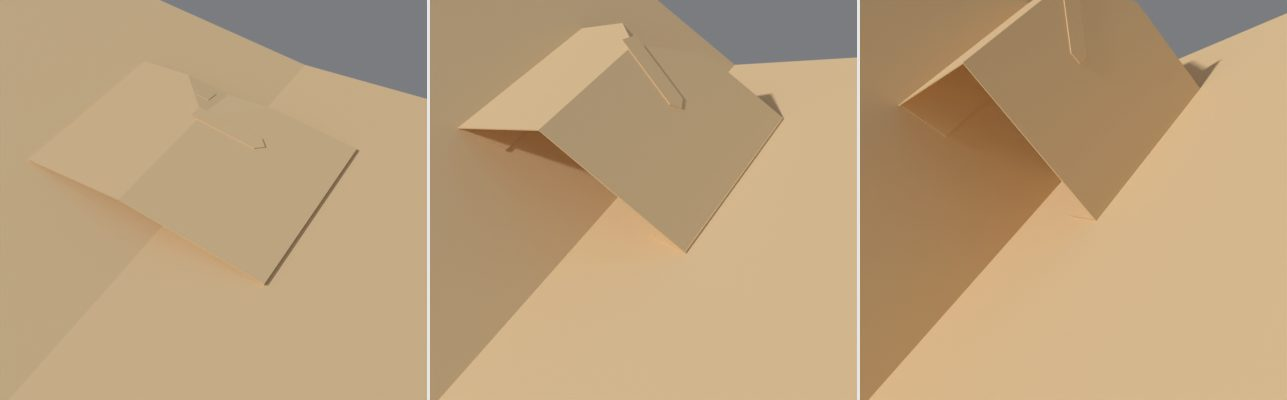
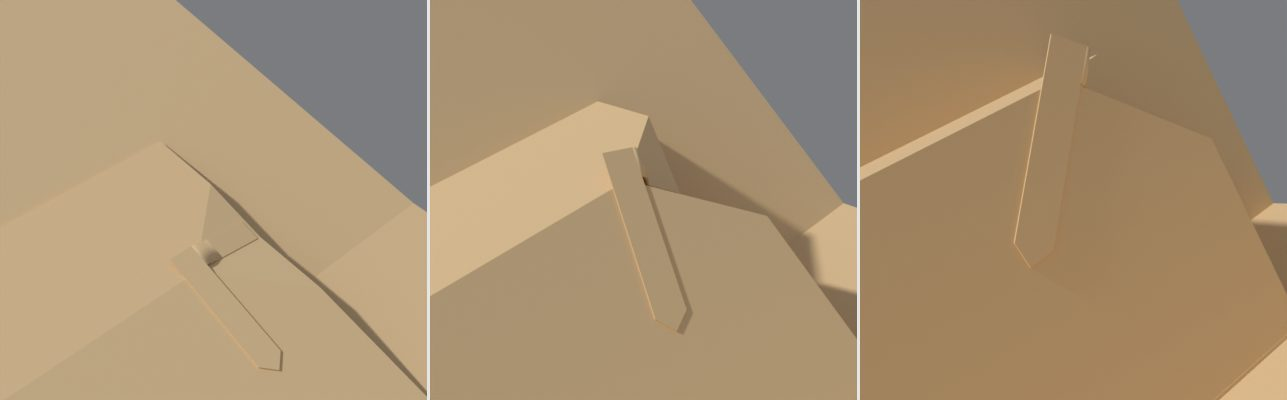
0.88.3: a dipped lid's crease is a host; the disc's L piece is one bent piece
Fold: Roof Crease on a cube with a dipped lid (on a strut or not) stands a
mechanism along the lid's crease from the front corner. The turning disc's
L piece prints as one right-angled L: leg F up the triangle's centre
crease, leg G under the disc, a low-poly band bending round the corner.

Claude-Session: https://claude.ai/code/session_01C9mQ3UdpPG4HfxWumnBXkE

diff --git a/popup_pro/core/folds45.py b/popup_pro/core/folds45.py
@@ -528,33 +528,65 @@ class Folds45:
             dsk = self.add(Panel(f"{dp}.Disc", dp, "panel", [circle], asm_disc, X, None,
                                  f"{lab}: turning disc"))
             dsk.free = True
-        # the L-shaped piece: arm F glued on Y's triangle, arm G reaching out
-        # from the disc's centre along its back (turning with it: with the
-        # disc hidden it shows the turn by itself, and takes paste-ons)
+        # the L-shaped piece, one strip of card: leg F glued on Y's triangle,
+        # leg G under the disc from its centre, turning with it (with the disc
+        # hidden it shows the turn by itself, and takes paste-ons). Between
+        # them it bends round the corner: leg F is stiff down to a band across
+        # it just above the corner, and the band bends from where leg F would
+        # put it to where leg G would (on screen a mix of the two)
         lp = f"{dp}L"
         self.add_piece(Piece(lp, f"{lab} disc's L piece", 1 + m["uid"], (0.0, 0.0)))
-        cy = [sum(q[i] for q in PY.polys[0]) / len(PY.polys[0]) for i in (0, 1)]
-        s_ = max(2.0, 0.3 * h)
-        armF = Matrix.Translation((cy[0], cy[1], TAB_LIFT))  # (on the triangle's middle)
+        Hv = Vector(Hp)
+        Cv = Vector([sum(q[i] for q in PY.polys[0]) / len(PY.polys[0]) for i in (0, 1)])
+        w_ = max(2.0, 0.3 * h)
+        cd = Vector(hc.d1(0.0, 1.0)).normalized()  # (the corner's crease)
+        if (Cv - Hv).dot(cd) < 0:
+            cd = -cd  # (up it into the triangles)
+        u2 = (Hv - Cv) - (Hv - Cv).dot(cd) * cd  # (across it, off Y into X)
+        u2.normalize()
+        reach = 0.85 * R
+        # leg F runs up the centre crease, alongside it on Y's triangle; leg G
+        # straight out across it at H: a right-angled L
+        Lf = 0.95 * h
+        yl = 0.5 * w_  # (up the crease from H: where it's stiff with leg G to)
+        bw = max(0.5 * w_, min(2.0 * w_, 0.3 * (Lf - yl)))
+        ya = yl + bw  # (leg F's stiff end)
+
+        def at(a_, b_):  # (a_ up the crease from H, b_ across it towards X)
+            return tuple((Hv + a_ * cd + b_ * u2)[:])
+
+        def rect(a0, a1):
+            return [at(a0, -w_), at(a0, 0.0), at(a1, 0.0), at(a1, -w_)]
+
+        legF = ccw(rect(ya, Lf))
+        rows = 6
+        bend = [ccw(rect(yl + bw * k / rows, yl + bw * (k + 1) / rows)) for k in range(rows)]
+        legG = [ccw([at(-yl, -w_), at(-yl, reach), at(0.0, reach + 0.5 * w_), at(yl, reach),
+                     at(yl, -w_)])]
+        z1 = Matrix.Translation((0.0, 0.0, TAB_LIFT))
+        Hm = Matrix.Translation(Hp3)
 
         def asm_f(t):
-            return PY.asm(t) @ armF
+            return PY.asm(t) @ z1
 
         def asm_g(t):
             return PX.asm(t) @ Matrix.Translation(Hp3 + Vector((0.0, 0.0, 2.0 * TAB_LIFT))) @ \
-                Matrix.Rotation(turn(t), 4, "Z")
+                Matrix.Rotation(turn(t), 4, "Z") @ Hm.inverted()
 
-        af = self.add(Panel(f"{lp}.F", lp, "panel",
-                            [[(-0.5 * s_, -0.5 * s_), (0.5 * s_, -0.5 * s_), (0.5 * s_, 0.5 * s_),
-                              (-0.5 * s_, 0.5 * s_)]], asm_f, Y, None,
-                            f"{lab}: L piece arm F (on the triangle)"))
+        af = self.add(Panel(f"{lp}.F", lp, "panel", [legF], asm_f, Y, None,
+                            f"{lab}: L piece leg F (on the triangle)"))
         af.free = True
-        reach = 0.85 * R
-        ag = self.add(Panel(f"{lp}.G", lp, "panel",
-                            [[(-0.5 * s_, -0.5 * s_), (reach, -0.5 * s_), (reach + 0.5 * s_, 0.0),
-                              (reach, 0.5 * s_), (-0.5 * s_, 0.5 * s_)]], asm_g, X, None,
-                            f"{lab}: L piece arm G (behind the disc, turning)"))
+        ag = self.add(Panel(f"{lp}.G", lp, "panel", legG, asm_g, X, None,
+                            f"{lab}: L piece leg G (behind the disc, turning)"))
         ag.free = True
+        bn = self.add(Panel(f"{lp}.Bend", lp, "panel", bend, asm_f, af.name, None,
+                            f"{lab}: L piece, bending round the corner"))
+        bn.free = True
+        Mw = Matrix(((1.0, 0.0, 0.0, 0.0), (cd.x, cd.y, 0.0, -Hv.dot(cd)),
+                     (0.0, 0.0, 1.0, 0.0), (0.0, 0.0, 0.0, 1.0)))
+        self.blend[bn.name] = (af.name, ag.name, ya, yl, Mw)
+        self.fold_kind[frozenset((af.name, bn.name))] = "skip"
+        self.fold_kind[frozenset((bn.name, ag.name))] = "skip"
 
     # ------------------------------------------------------- jack in the box
     def _jack(self, m, host, cut_in):

diff --git a/tests/test_book_v88.py b/tests/test_book_v88.py
@@ -86,7 +86,29 @@ c = add("CUBE")
 c.size, c.size_r, c.height, c.lid = 55.0, 28.0, 32.0, "STRUT"
 c.strut_at = 200.0
 assert any("strut must stand inside" in w for w in model().warnings)
-print("a dipped lid on a V-fold strut")
+# 0.88.3: a dipped lid's crease is a fold to stand on (Roof Crease)
+for lid in ("DIP", "STRUT"):
+    reset()
+    c = add("CUBE")
+    c.size, c.size_r, c.height, c.lid = 55.0, 28.0, 32.0, lid
+    assert bpy.ops.popup.add(kind="VFOLD", host=c.uid) == {"FINISHED"}
+    v = st.mechs[-1]
+    v.wall = "NONE"
+    v.y, v.height, v.glue = 8.0, 14.0, 14.0
+    bpy.ops.popup.build()
+    assert not warns(), (lid, warns())
+    M = model()
+    assert M.panels["VFold2.HalfL"].parent in ("Cube1.LidL", "Cube1.LidR"), lid
+    clean(M, "VFold2")
+# picked from Stands On, a mechanism goes on a dipped lid's crease
+reset()
+c = add("CUBE")
+c.lid = "DIP"
+assert bpy.ops.popup.add(kind="VFOLD") == {"FINISHED"}
+v = st.mechs[-1]
+v.host = str(c.uid)
+assert v.wall == "NONE"
+print("a dipped lid on a V-fold strut; its crease a fold to stand on")
 
 # ---- turning discs
 for on in ("FRONT", "TOP"):
@@ -127,7 +149,23 @@ bpy.ops.popup.build()
 assert not warns(), warns()
 M = model()
 assert not [x for x in M.order if x.endswith(".Disc")]
-assert {"Box1discTL.F", "Box1discTL.G"} <= set(M.order)
+assert {"Box1discTL.F", "Box1discTL.G", "Box1discTL.Bend"} <= set(M.order)
+# 0.88.3: the L piece is one strip of card, bending round the corner between
+# its legs (no folds printed between them; the bend continuous on screen)
+assert all(M.fold_kind.get(frozenset(p)) == "skip" for p in (
+    ("Box1discTL.F", "Box1discTL.Bend"), ("Box1discTL.Bend", "Box1discTL.G")))
+assert "Box1discTL.Bend" in M.blend
+bn = M.panels["Box1discTL.Bend"]
+for t in M.samples:
+    for poly in bn.polys:
+        for q in poly:
+            u = M.blend_weight(bn.name, q)
+            assert -1e-9 <= u <= 1 + 1e-9
+    # where the bend meets leg G it sits where leg G does
+    G = M.panels["Box1discTL.G"]
+    near = [q for poly in bn.polys for q in poly if M.blend_weight(bn.name, q) > 1 - 1e-9]
+    assert near and all((M.point(bn.name, q, t) - M.shown(G.name, t) @ Vector((*q, 0.0))).length
+                        < 1e-6 for q in near)
 print("turning discs and wheels")
 
 # ---- 0.88.1: rectangles take lids, creased at 45 degrees

diff --git a/popup_pro/props.py b/popup_pro/props.py
@@ -551,6 +551,33 @@ def fit_to_host(m, st):
         finally:
             st["live"] = was
         return
+    if host is not None and host.kind == "CUBE" and m.wall == "NONE" and \
+            host.lid in ("DIP", "STRUT") and host.roof == "NONE" and not host.collar:
+        # along a dipped lid's crease, from the front corner: small enough
+        # to stand in the valley clear of the lid's edges
+        was = st.live
+        st["live"] = False
+        try:
+            s_ = min(host.size, host.size_r or host.size)
+            k = round(0.3 * s_, 1)
+            Lh = s_ * 1.4142
+            m.y = round(0.25 * Lh, 1)
+            if m.kind == "CUBE":
+                m.size, m.size_r, m.height = 0.7 * k, 0.0, 0.7 * k
+            elif m.kind in ("BOX", "BOXCUT"):
+                m.height = m.depth = k
+                m.width = round(0.4 * Lh, 1)
+            elif m.kind == "VFOLD":
+                m.glue = m.height = k
+            elif m.kind == "STANDUP":
+                m.height = m.depth = 0.8 * k
+                m.width = round(0.3 * Lh, 1)
+            elif m.kind in ("TUBE", "PYRAMID"):
+                m.x, m.height, m.depth = 0.25 * k, 0.7 * k, round(0.4 * Lh, 1)
+                m.front = m.back = 0.35 * k
+        finally:
+            st["live"] = was
+        return
     if host is not None and host.kind in ("CUBE", "TUBE") and not (
             host.kind == "TUBE" and m.wall == "NONE" and host.roof == "FLAT"
             and host.roof_fold == "DIP"):
@@ -1155,7 +1182,8 @@ class PopupMech(bpy.types.PropertyGroup):
     size: FloatProperty(name="Size", description="Width of each wall (mm)", default=40.0,
                         min=5.0, soft_max=150.0, update=_changed)
     wall: EnumProperty(name="Fold", update=lambda self, ctx: _fold_changed(self, ctx), items=[
-        ("NONE", "Roof Crease", "On a tube: across its dipped flat roof's centre crease"),
+        ("NONE", "Roof Crease", "On a tube: across its dipped flat roof's centre crease; "
+         "on a cube: along its dipped lid's crease, from the front corner"),
         ("L", "Left Wall", "Where the host's left (front-left) wall meets the page, "
          "outside it: the wall as the background"),
         ("R", "Right Wall", "Where the host's right (front-right) wall meets the page, "

diff --git a/scripts/render_views.py b/scripts/render_views.py
@@ -169,6 +169,15 @@ def rect_lid():
     return (0, 105, 25), 250, (0.35, -0.75, 0.55), (178.0, 140.0, 100.0)
 
 
+def lid_host():
+    a = add("CUBE")
+    a.size, a.size_r, a.height, a.lid = 55.0, 28.0, 32.0, "STRUT"
+    b = add("VFOLD", host=a.uid)
+    b.wall = "NONE"  # (Roof Crease)
+    b.y, b.height, b.glue = 8.0, 14.0, 14.0
+    return (0, 110, 35), 230, (0.35, -0.75, 0.55), (178.0, 140.0, 100.0)
+
+
 def strut_cutaway():
     a = add("CUBE")
     a.size, a.size_r, a.height, a.lid = 55.0, 28.0, 32.0, "STRUT"
@@ -190,7 +199,7 @@ def disc_close():
 def disc_hidden():
     a = add("BOX")
     a.tri45, a.tri_size, a.tri_disc, a.disc_show = "TOP", 14.0, "FRONT", False
-    return (20, 125, 30), 110, (0.35, -0.55, 0.75), (170.0, 130.0, 95.0)
+    return (-8, 168, 25), 80, (0.5, -0.4, 0.77), (170.0, 130.0, 95.0)
 
 
 def turning_wheels():
@@ -241,7 +250,7 @@ def on_riser():
     return (0, 105, 25), 260, (0.25, -0.9, 0.45), (175.0, 120.0, 70.0)
 
 
-SCENES = dict(strut_cutaway=strut_cutaway, rect_lid=rect_lid, strut_lid=strut_lid, turning_disc=turning_disc, disc_close=disc_close, disc_hidden=disc_hidden, turning_wheels=turning_wheels, jack_flat=jack_flat, bite_steps=bite_steps, beak_bite=beak_bite, swing_arm=swing_arm, swing_bare=swing_bare, swing_shut=swing_shut, house=house, on_riser=on_riser, flapping_arms=flapping_arms, vfold_bite=vfold_bite, animal_face=animal_face, box_ends=box_ends, slotted_sheet=slotted_sheet, collar_tiers=collar_tiers, loop_cone=loop_cone, cone_lid=cone_lid,
+SCENES = dict(strut_cutaway=strut_cutaway, rect_lid=rect_lid, strut_lid=strut_lid, turning_disc=turning_disc, disc_close=disc_close, disc_hidden=disc_hidden, lid_host=lid_host, turning_wheels=turning_wheels, jack_flat=jack_flat, bite_steps=bite_steps, beak_bite=beak_bite, swing_arm=swing_arm, swing_bare=swing_bare, swing_shut=swing_shut, house=house, on_riser=on_riser, flapping_arms=flapping_arms, vfold_bite=vfold_bite, animal_face=animal_face, box_ends=box_ends, slotted_sheet=slotted_sheet, collar_tiers=collar_tiers, loop_cone=loop_cone, cone_lid=cone_lid,
               angled_box=angled_box, cube_tower=cube_tower)
 
 

diff --git a/popup_pro/core/cubes.py b/popup_pro/core/cubes.py
@@ -207,6 +207,20 @@ class Cubes:
 
             self.add(Panel(f"{piece}.LidTab", piece, "tab", [tab_poly], asm_lt, lb.name, None,
                            f"{lab}: lid glue tab"))
+            if sg < 0:
+                # a dipped lid's crease is a valley seen from above: a fold
+                # for other mechanisms to stand on, from the front corner
+                # back along it (the left lid as the left page)
+                r2_ = math.sqrt(0.5)
+                o_ = Vector((s2, hgt, 0.0))
+                hr = Host(self, lb.name, 0.0, 0.0, f"{piece}.LidR", 0.0, 0.0,
+                          f"{lab}: lid's crease",
+                          frame(o_, (r2_, r2_, 0.0), (-r2_, r2_, 0.0)),
+                          frame(o_, (r2_, -r2_, 0.0), (r2_, r2_, 0.0))).finish()
+                hr.trig = False
+                hr.key = (uid, "R")
+                hr.size = (s, Lh)
+                self.hosts[(uid, "R")] = hr
             if strut:
                 self._strut(m, piece, parts, host, wB, wC, hgt, s2, lab)
 

diff --git a/popup_pro/core/model.py b/popup_pro/core/model.py
@@ -322,7 +322,12 @@ class Model(Arms, Swing, BoxFolds, BoxEnds, Faces, Folds45, StandUps, VFolds, Zi
                 w_ = m.get("wall", "NONE")
                 fold = w_ if w_ in CORNERS else {"L": "WL", "R": "WR"}.get(w_, "R")
             if h and by_uid[h]["type"] == "CUBE":
-                fold = "WR" if m.get("wall") == "R" else "WL"  # a front wall's foot
+                # a front wall's foot, or across a dipped lid's crease
+                w_ = m.get("wall", "NONE")
+                dipped = by_uid[h].get("lid") in ("DIP", "STRUT") and \
+                    by_uid[h].get("roof", "NONE") == "NONE" and not (
+                        by_uid[h].get("collar") and by_uid[h].get("collar_dir") == "IN")
+                fold = "WR" if w_ == "R" else ("R" if w_ == "NONE" and dipped else "WL")
             if h and by_uid[h]["type"] == "STAGE":
                 fold = "S"  # the stage set's back crease
             if h and by_uid[h]["type"] == "PLATFORM":

diff --git a/docs/guide.md b/docs/guide.md
@@ -162,6 +162,14 @@ there's no room for it.
 ![The same with the front walls cut away to show the strut, at 178, 145 and
 115 degrees](images/strut_cutaway.jpg)
 
+A dipped lid's crease is a valley seen from above, so other mechanisms can
+stand on it like on the card's spine: pick the cube in **Stands On** and
+**Fold: Roof Crease** (the default on a cube with a dipped lid), positions
+running back along the crease from the front corner.
+
+![A V-fold on a rectangular cube's dipped lid, at 178, 140 and 100
+degrees](images/lid_host.jpg)
+
 A cube is a tower whose front corner closes on the fold, so it takes a
 castle tower's **Tower Roof** (Pointed or Flat, with Overhang) and **Collar**
 (balcony or tapered top, railings, tiers) too: the same settings as a
@@ -1236,8 +1244,14 @@ the card is nearly shut.
   box carries two: **Add > Turning Wheels (on a box fold)** sets one up as a
   pair of wheels, ready for a car body pasted on the front; **Turning Disc
   (on a box fold)** a single disc for a face, a dial or a steering wheel.
-  Untick **Show the Disc** to leave the disc off: the L piece's arm behind
-  it still turns, and paste-ons glue on it or on the disc.
+  The L piece prints as one strip of card: one leg glued on the triangle
+  up the centre crease, the other straight out under the disc from its centre, the strip bending round the
+  corner between them. Untick **Show the Disc** to leave the disc off: the
+  L piece's leg behind it still turns, and paste-ons glue on it or on the
+  disc.
+
+  ![The L piece with the disc hidden, at 170, 130 and 95
+  degrees](images/disc_hidden.jpg)
 
   ![A turning disc, at 178, 130 and 90 degrees](images/turning_disc.jpg)
 
@@ -1394,7 +1408,7 @@ it. What stands where:
 | Stand-up | On Top, In Front, Inset | Every glued kind (no box layers, mouths or jack) |
 | V-fold (panels, beak, asymmetric, M-fold) | On the Crease; In Front or Behind, Left or Right | On the crease: box folds, box layers, V-folds, mouths, cubes, tubes, pyramids, stand-ups, the jack in the box. In front of or behind a half: stand-ups, box folds, cubes, tubes, pyramids, V-folds |
 | Zig-zag (the shape or the mechanism), multiple quadrilaterals | Its centre crease, the only one | As a V-fold's crease, without the jack |
-| Cube, tube | Outside the Left or Right wall | Box folds, V-folds, cubes, tubes, pyramids, stand-ups. A tube also takes towers up its inside corners (a round end has none) and, with a flat roof that dips, anything on the roof's crease |
+| Cube, tube | Outside the Left or Right wall; Roof Crease | Box folds, V-folds, cubes, tubes, pyramids, stand-ups. A tube also takes towers up its inside corners (a round end has none) and, with a flat roof that dips, anything on the roof's crease; a cube with a dipped lid (on a strut or not), anything along the lid's crease from the front corner |
 | Platform | The valley in its top | Every kind but a jack in the box |
 | Rising sheet | The corner with the Left or Right page, or that side's 45° fold's crease | Box folds, box layers, V-folds, mouths, cubes, tubes, pyramids, stand-ups, platforms, arms behind a mask; its cross pieces |
 | Arm behind a mask | The mask's fold, by tab B | Box folds, V-folds, stand-ups, cubes, tubes, pyramids, platforms, arms behind a mask |

diff --git a/CHANGELOG.md b/CHANGELOG.md
@@ -3,6 +3,13 @@
 Newest first. `python scripts/since_upload.py` shows what has changed since the
 last upload to GitHub.
 
+* **0.88.3**: a cube's dipped lid (on a strut or not) is a host: **Fold:
+  Roof Crease** stands a mechanism along its crease from the front corner,
+  and is where a mechanism picked onto such a cube starts. The turning
+  disc's L piece is one piece again, laid out as an L: leg F glued on the
+  triangle up the centre crease, leg G straight out across it under the
+  disc, a short band between bending round the corner from one to the
+  other.
 * **0.88.2**: **Lid: Dipped, on a Strut** replaces 0.88.0's flat lid on a
   strut, which was the wrong mechanism: the dipped lid creased at 45° from
   the front corner, held by a V-fold strut (two panels across a crease, a

diff --git a/README.md b/README.md
@@ -255,10 +255,11 @@ Sunflower is a good way to make them.
 
 ## Version history
 
+* **0.88.3**: a dipped lid's crease is a fold to stand on; the turning
+  disc's L piece is one piece, bending round the corner.
 * **0.88.2**: the strut redone as the book's: a V-fold strut holding a
   rectangle's dipped lid; the turning disc can be hidden.
 * **0.88.1**: rectangular cubes take lids too; turning discs take paste-ons.
-* **0.88**: turning discs and wheels on a box fold's corner triangles.
 
 Earlier versions are in the [changelog](CHANGELOG.md).
 
